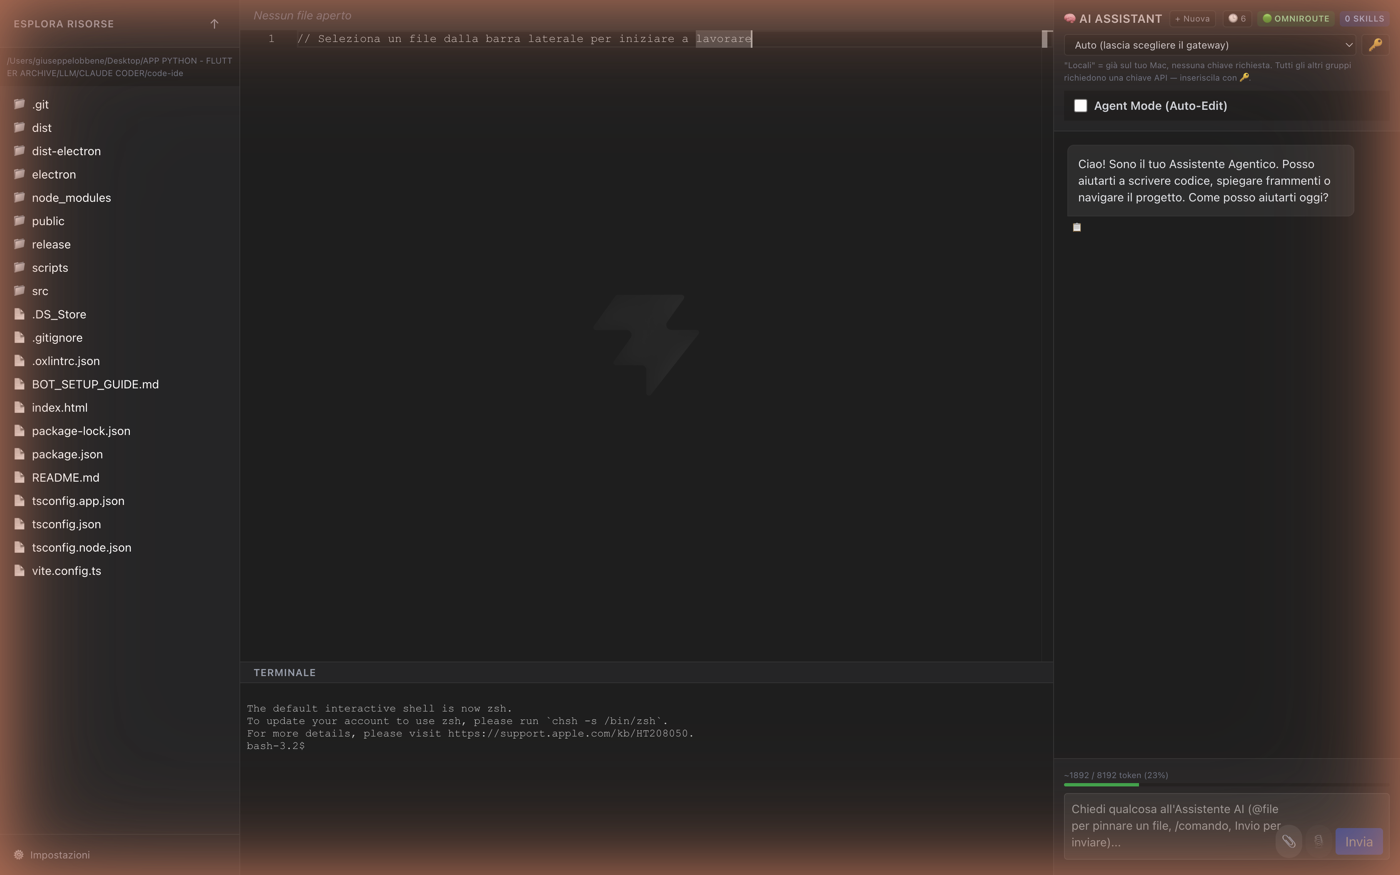
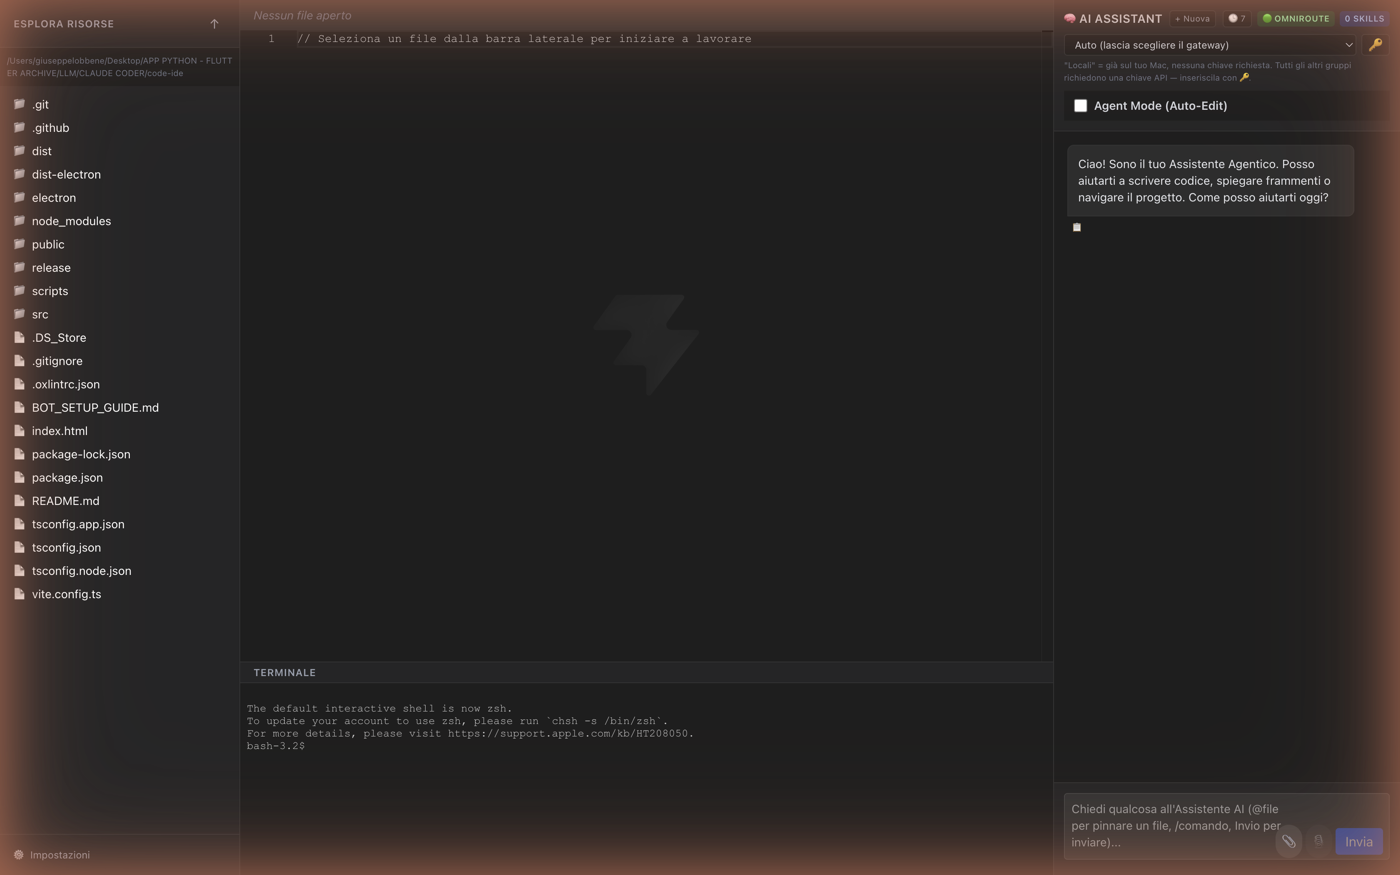
Fix README screenshot showing desktop wallpaper, add step-modal screenshot
The previous "file reading" screenshot was captured at a moment when the
app window wasn't actually covering the full screen, letting the desktop
wallpaper bleed through at the bottom. Replaced the main chat screenshot
with a verified clean one and added a real screenshot of the step
continuation modal (previously only described in text, never shown).

diff --git a/README.md b/README.md
@@ -38,7 +38,7 @@ Desktop IDE (Electron + React + TypeScript) with an agentic AI assistant: multi-
 
 ![Model selection menu](.github/screenshots/02-model-dropdown.png)
 
-![Real file reading from normal chat](.github/screenshots/03-file-reading.png)
+![Step confirmation modal for multi-file review](.github/screenshots/04-step-modal.png)
 
 ## Development
 
